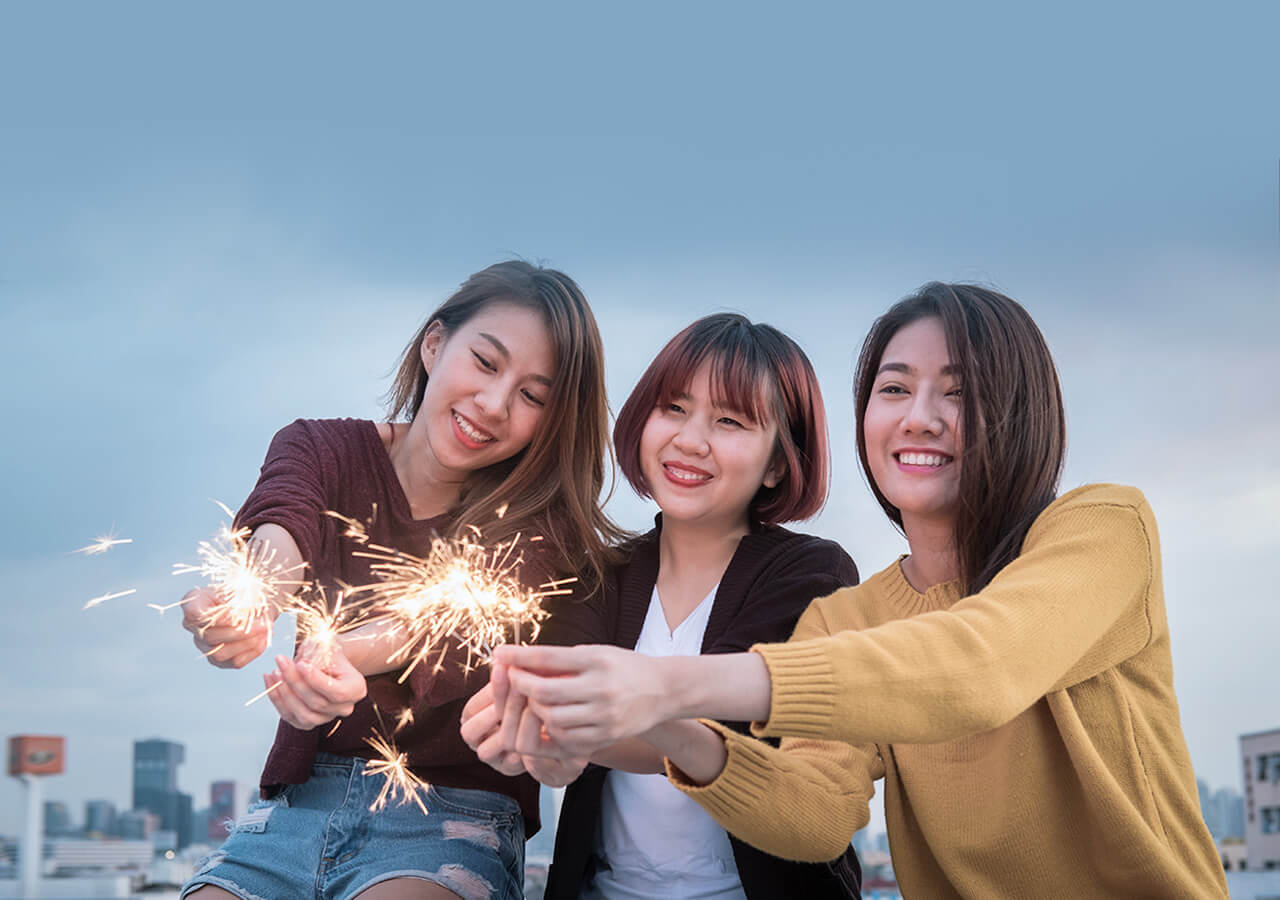
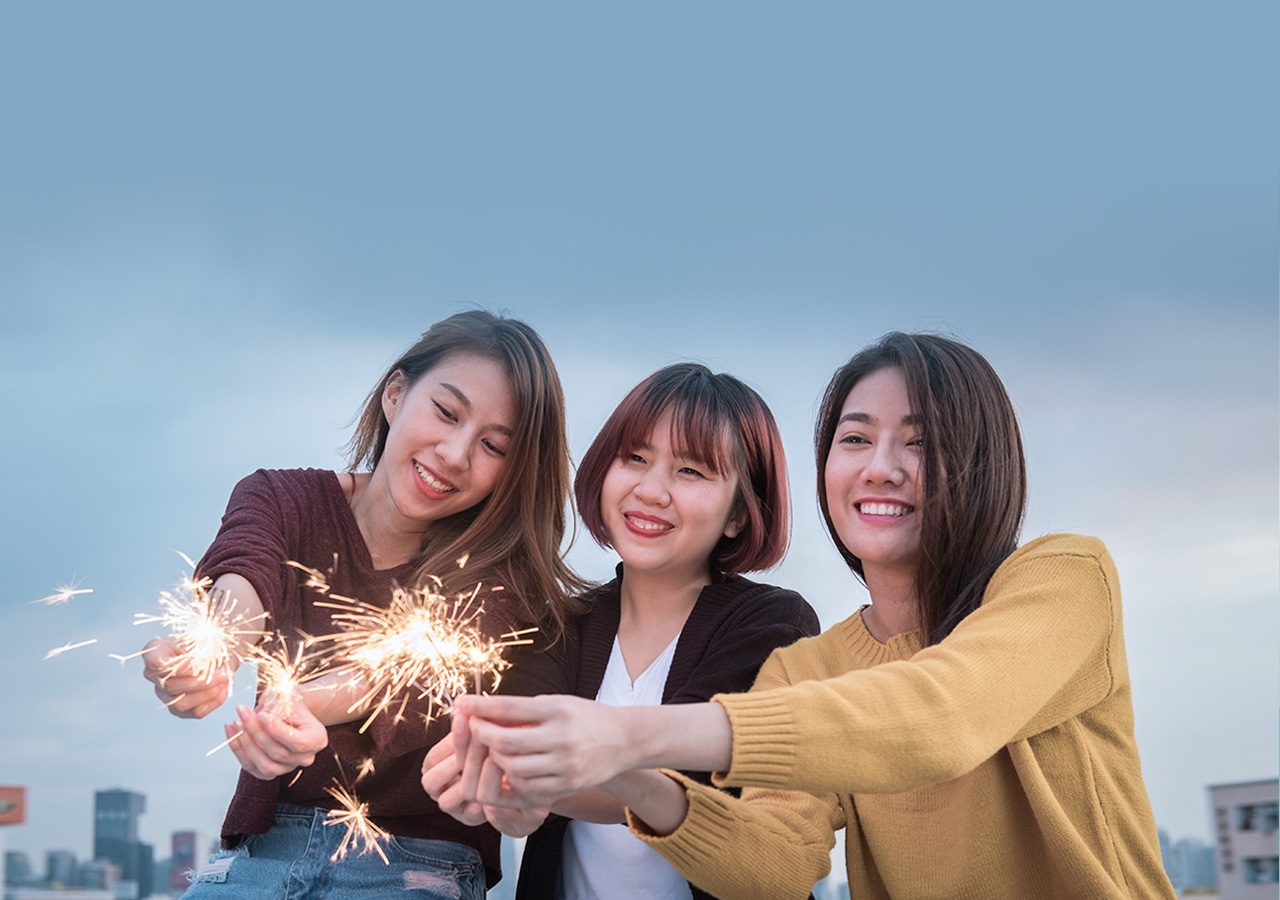
revised

diff --git a/triple_perks_rewarding_events/index.html b/triple_perks_rewarding_events/index.html
@@ -50,18 +50,18 @@
 			<section class="page-header fixed-background-KV">
 				<div class="page-container page-container--gutters">
 					<header class="KV-text text-center">
-						<div data-aos="fade-up" data-aos-duration="1000" data-aos-offset="20" class="KV_logo text-center"><img src="images/marriott_logo_white.png"
+						<div data-aos="fade-up" data-aos-duration="2000" data-aos-offset="20" class="KV_logo text-center"><img src="images/marriott_logo_white.png"
 							 alt="marriott logo"></div>
-						<div data-aos="fade-up" data-aos-delay="200" data-aos-duration="1000" class="KV-header">TRIPLE PERKS <br>
+						<div data-aos="fade-up" data-aos-delay="400" data-aos-duration="2000" class="KV-header">TRIPLE PERKS <br>
 							REWARDING EVENTS. MADE HERE.</div>
-						<div data-aos="fade-up" data-aos-delay="400" data-aos-duration="1000" class="KV-header-desc">Earn rewards & get
+						<div data-aos="fade-up" data-aos-delay="800" data-aos-duration="2000" class="KV-header-desc">Earn rewards & get
 							more points for your next meeting or events.</div>
 
 					</header>
 				</div>
 			</section>
 
-			<section class="component sub-header page-container--gutters" data-aos="fade-up" data-aos-duration="1000">
+			<section class="component sub-header page-container--gutters" data-aos="fade-up" data-aos-duration="2000">
 				<div class="KV-subheader">REWARDING EVENTS. <span class="d-inline d-md-none"><br></span>MADE HERE.</div>
 				<div class="KV-subheader-desc">
 					<p class="mt-0">Plan an unforgettable meeting or event at participating hotels of Marriott Rewards®, <br>
@@ -75,14 +75,14 @@
 
 			<section class="component text-center page-container--gutters fixed-background-triple-perks" style="background-size: cover">
 				<div class="page-container" style="max-width:1100px">
-					<header class="component-container" data-aos="fade-up" data-aos-duration="1000">
+					<header class="component-container" data-aos="fade-up" data-aos-delay="200" data-aos-duration="2000">
 						<div class="component-benefits-title">With our Triple Perks group offer, <br>
 							you can select THREE additional rewards for your next meeting or event. Choose from:</div>
 					</header>
 
 					<ul class="component-benefits__list">
 
-						<li class="component-benefits__item" data-aos="fade-up" data-aos-duration="1000">
+						<li class="component-benefits__item" data-aos="fade-up" data-aos-delay="400" data-aos-duration="2000">
 							<div>
 								<img src="images/icon_01.svg" alt="5% off master-billedrooms" />
 							</div>
@@ -91,7 +91,7 @@
 							</div>
 						</li>
 
-						<li class="component-benefits__item" data-aos="fade-up" data-aos-delay="100" data-aos-duration="1000">
+						<li class="component-benefits__item" data-aos="fade-up" data-aos-delay="600" data-aos-duration="2000">
 							<div>
 								<img src="images/icon_02.svg" alt="One in ten delegatesgoes free" />
 							</div>
@@ -100,7 +100,7 @@
 							</div>
 						</li>
 
-						<li class="component-benefits__item" data-aos="fade-up" data-aos-delay="200" data-aos-duration="1000">
+						<li class="component-benefits__item" data-aos="fade-up" data-aos-delay="800" data-aos-duration="2000">
 							<div>
 								<img src="images/icon_03.svg" alt="Triple MarriottRewards points" />
 							</div>
@@ -109,7 +109,7 @@
 							</div>
 						</li>
 
-						<li class="component-benefits__item" data-aos="fade-up" data-aos-delay="300" data-aos-duration="1000">
+						<li class="component-benefits__item" data-aos="fade-up" data-aos-delay="1000" data-aos-duration="2000">
 							<div>
 								<img src="images/icon_04.svg" alt="One complimentary room night for every 25 paid room nights" />
 							</div>
@@ -118,7 +118,7 @@
 							</div>
 						</li>
 
-						<li class="component-benefits__item" data-aos="fade-up" data-aos-delay="400" data-aos-duration="1000">
+						<li class="component-benefits__item" data-aos="fade-up" data-aos-delay="1200" data-aos-duration="2000">
 							<div>
 								<img src="images/icon_05.svg" alt="One complimentary room upgrade for every 25 paid room" />
 							</div>
@@ -130,12 +130,12 @@
 
 
 					</ul>
-					<div class="remarks">*Please see below for complete terms & conditions</div>
+					<div class="remarks" data-aos="fade-up" data-aos-delay="200" data-aos-duration="2000">*Please see below for complete terms & conditions</div>
 					<div class="call-to-action-button">
 
-						<div class="button-text" onclick="goToAnchor('get-in-touch-form')">Start planning with us today</div>
+						<div class="button-text" onclick="goToAnchor('get-in-touch-form')" data-aos="fade-up" data-aos-delay="600" data-aos-duration="2000">Start planning with us today</div>
 					</div>
-					<div class="benefits-text">To enjoy this offer, book by 15 September, 2019 for arrivals by 30 September, 2019 to
+					<div class="benefits-text" data-aos="fade-up" data-aos-delay="400" data-aos-duration="2000">To enjoy this offer, book by 15 September, 2019 for arrivals by 30 September, 2019 to
 						enjoy our triple rewards!
 
 					</div>
@@ -260,14 +260,14 @@
 
 			<section class="component-get-in-touch fixed-background-form">
 				<div class="page-container page-container--gutters">
-					<header class="component-container" data-aos="fade-up" data-aos-duration="1000">
+					<header class="component-container" data-aos="fade-up" data-aos-duration="2000">
 						<div class="form-title">
 							<p>Contact your local sales representative to plan your meetings / events today or<br />
 								explore our hotel options and submit your RFP below.</p>
 						</div>
 					</header>
 
-					<div class="get-in-touch-form" id="get-in-touch-form" data-aos="fade-up" data-aos-duration="1000" data-aos-delay="200">
+					<div class="get-in-touch-form" id="get-in-touch-form" data-aos="fade-up" data-aos-duration="2000" data-aos-delay="200">
 						<div class="form-big-title">GET IN TOUCH</div>
 						<div class="form-desc">Let us help you bring your next meeting or event to life. Fill in the
 							form to contact us today.</div>
@@ -889,8 +889,8 @@
 												</div>
 												<div class="quform-element quform-element-textarea quform-element-1_28 quform-cf quform-element-required">
 													<div class="quform-spacer">
-														<div class="quform-label quform-label-1_28"><label class="quform-label-text" for="quform_1_28_537b35">MESSAGE<span
-																 class="quform-required">*</span></label></div>
+														<div class="quform-label quform-label-1_28">
+														  <label class="quform-label-text" for="quform_1_28_537b35">MESSAGE</label></div>
 														<div class="quform-inner quform-inner-textarea quform-inner-1_28">
 															<div class="quform-input quform-input-textarea quform-input-1_28 quform-cf"><textarea id="quform_1_28_537b35"
 																 name="quform_1_28" class="quform-field quform-field-textarea quform-field-1_28 form-control">Hello, I am interested in hosting a meeting or event at [Enter Hotel Name/Location] on the [Enter Date] for approximately [Enter Number] people.
@@ -917,7 +917,7 @@ Please contact me for more details. Thank you.</textarea></div><label id="quform
 																</div>
 															</div>
 															<p class="quform-description quform-description-below">Yes
-																Please - I want to receive updates on my inquiry and
+																please - I want to receive updates on my inquiry and
 																the latest offers. </p>
 														</div>
 													</div>
@@ -932,8 +932,7 @@ Please contact me for more details. Thank you.</textarea></div><label id="quform
 																		 for="quform_1_47_537b35_1" class="quform-option-label quform-option-label-1_47_1"></label></div>
 																</div>
 															</div>
-															<p class="quform-description quform-description-below">By
-																completing this form I agree to Marriott's <a href="https://www.marriott.com/about/privacy.mi" target="_blank">Privacy
+															<p class="quform-description quform-description-below">By completing this form, I agree to be contacted about this offer by a sales associate and agree to Marriott International's  <a href="https://www.marriott.com/about/privacy.mi" target="_blank">Privacy
 																	Statement</a>.</p>
 														</div>
 													</div>
@@ -1006,7 +1005,7 @@ Please contact me for more details. Thank you.</textarea></div><label id="quform
 			<section class="promotion" style="z-index:500;position: relative;background-color:#fff;">
 				<div class="w-100 row p-0 m-0">
 
-					<div class="promo-box col-12 col-lg-4 p-0" data-aos="fade-up" data-aos-delay="0" data-aos-duration="500">
+					<div class="promo-box col-12 col-lg-4 p-0" data-aos="fade-up" data-aos-delay="200" data-aos-duration="2000">
 
 						<div class="text order-3">
 							<div class="promo-text">The first visual, social, collaborative website to change the way meetings are planned.</div>
@@ -1026,7 +1025,7 @@ Please contact me for more details. Thank you.</textarea></div><label id="quform
 					</div>
 
 
-					<div class="promo-box col-12 col-lg-4 p-0" data-aos="fade-up" data-aos-delay="200" data-aos-duration="500">
+					<div class="promo-box col-12 col-lg-4 p-0" data-aos="fade-up" data-aos-delay="400" data-aos-duration="2000">
 
 						<div class="text order-3">
 							<div class="promo-text">Earn up to 105,000 points for Platinum Premier Elite members or 60,000 points for base
@@ -1047,7 +1046,7 @@ Please contact me for more details. Thank you.</textarea></div><label id="quform
 					</div>
 
 
-					<div class="promo-box col-12 col-lg-4 p-0" data-aos="fade-up" data-aos-delay="400" data-aos-duration="500">
+					<div class="promo-box col-12 col-lg-4 p-0" data-aos="fade-up" data-aos-delay="600" data-aos-duration="2000">
 
 						<div class="text order-3">
 							<div class="promo-text">Functional spaces, creative menu options, fresh local ingredients, themed events, our

diff --git a/triple_perks_rewarding_events/assets/styles/main.css b/triple_perks_rewarding_events/assets/styles/main.css
@@ -1257,7 +1257,7 @@ fieldset {
 
 .page-header {
     width: 100%;
-    padding-top: 27px;
+    padding-top: 35px;
     padding-bottom: 40px;
     z-index: 0;
     position: relative;
@@ -1268,7 +1268,7 @@ fieldset {
 .fixed-background-KV {
     background: url("../../images/KV_Marriott_triple_perks_rewarding.jpg");
     background-attachment: scroll;
-    background-size: 140%;
+    background-size: 200%;
     background-position: center bottom;
     background-repeat: no-repeat;
     background-color: #82a7c4;
